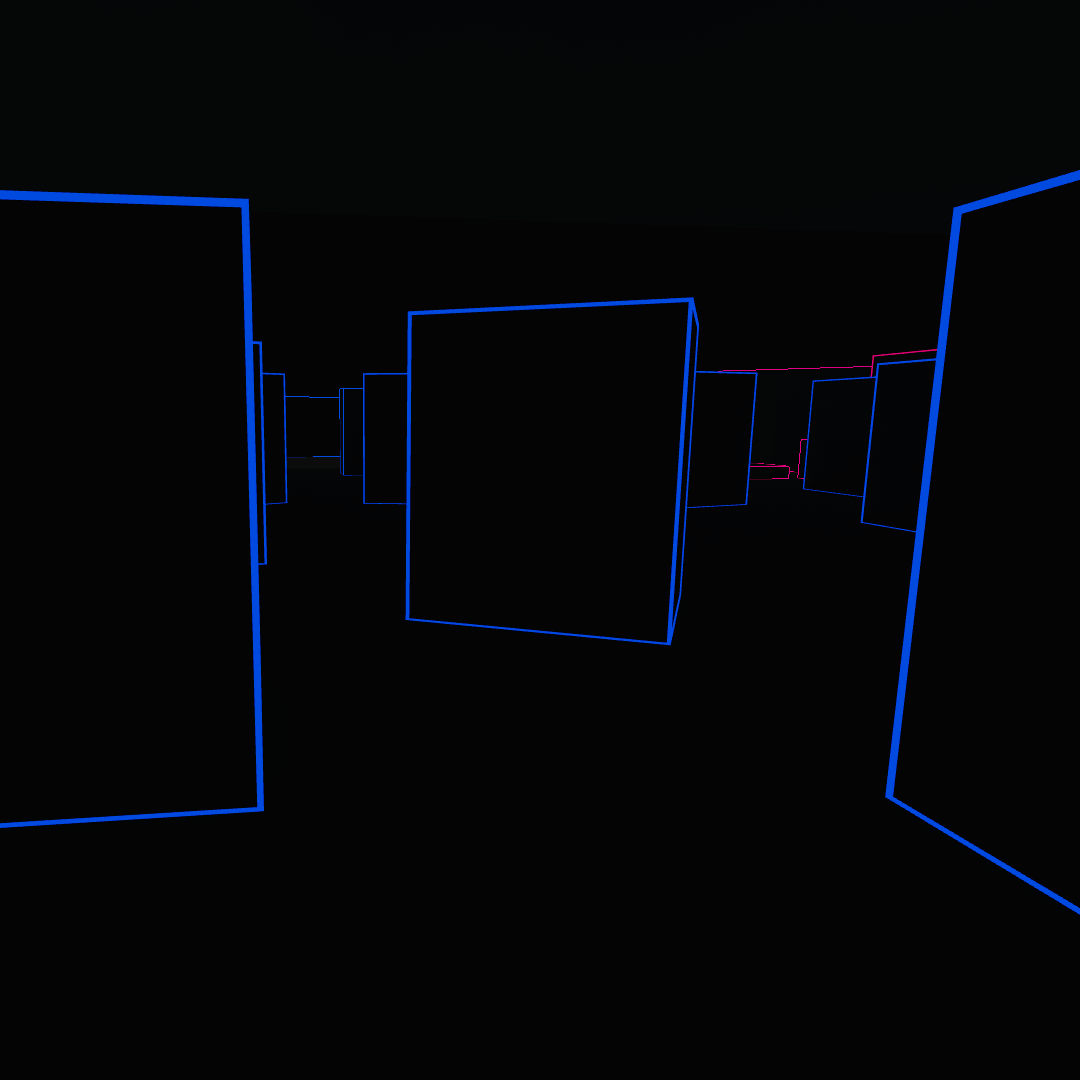
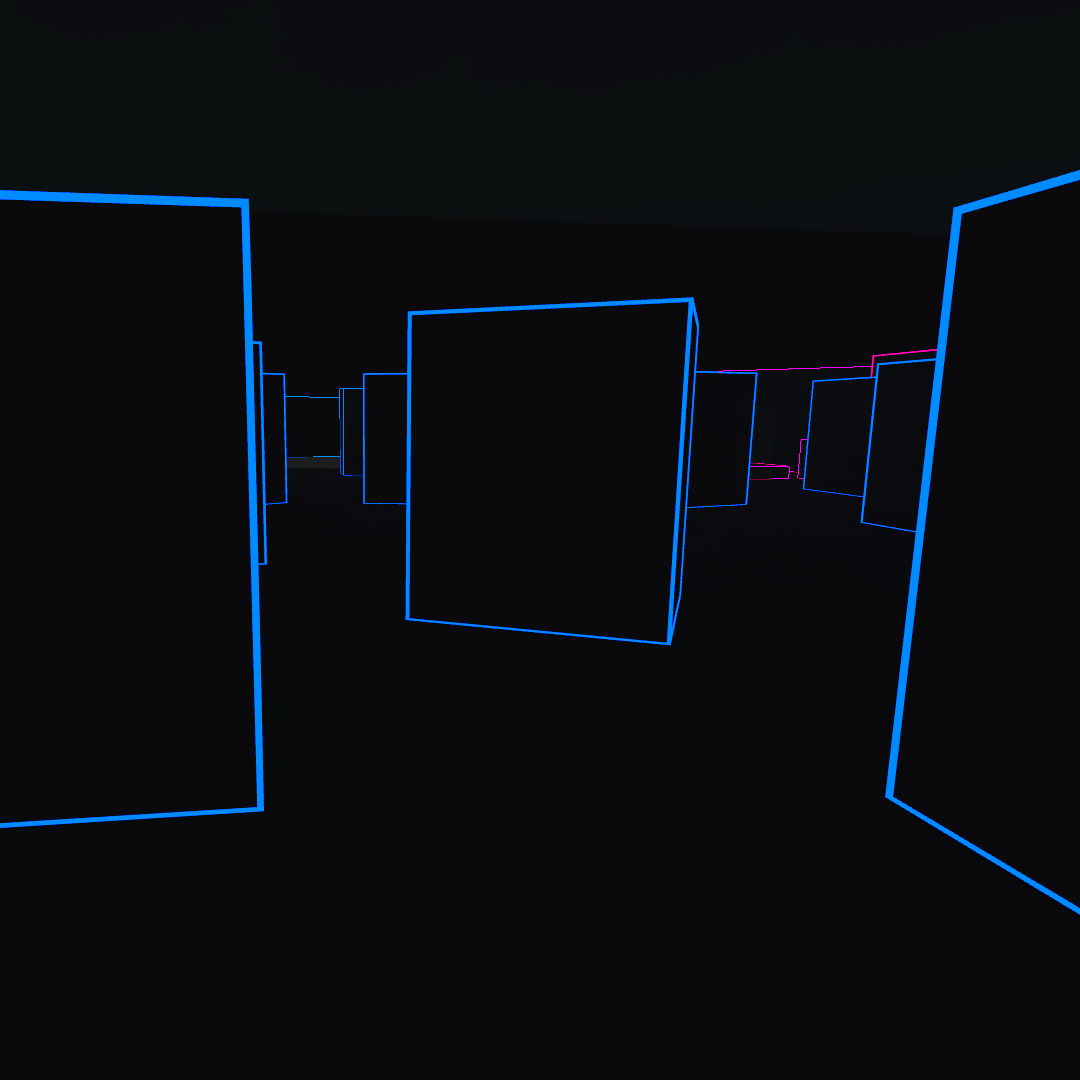
hof improvements

diff --git a/app/hof/page.tsx b/app/hof/page.tsx
@@ -11,6 +11,7 @@ import { useRuns } from "../../hooks/useRuns"
 
 import { categoryPresets } from "../../lib/categories"
 import { getMapsForCategory } from "../../lib/categoryMaps"
+import { getRankColor } from "../../lib/rankColors"
 import { formatTime } from "../../lib/utils"
 import {
   formatHoFRank,
@@ -62,10 +63,6 @@ export default function HoFPage() {
         <h1 className="text-4xl font-bold">
           Hall of Fame
         </h1>
-
-        <p className="mt-2 text-sm text-neutral-400">
-          Overall leaderboards
-        </p>
       </section>
 
       <div className="flex flex-col items-center gap-4">
@@ -82,6 +79,12 @@ export default function HoFPage() {
             setStat(value as HoFStat)
           }
         />
+
+        {(stat === "ap" || stat === "total") && (
+          <p className="text-sm text-neutral-400">
+            All map submissions required
+          </p>
+        )}
       </div>
 
       {loading ? (
@@ -89,13 +92,34 @@ export default function HoFPage() {
           Loading HoF...
         </p>
       ) : (
-        <section className="overflow-hidden rounded-2xl border border-neutral-800">
-          <div className="grid grid-cols-[0.5fr_4fr_1fr] border-b border-neutral-800 bg-neutral-900/60 px-6 py-4 text-sm font-semibold text-neutral-300">
-            <div>#</div>
+        <section className="w-full overflow-hidden rounded-2xl border border-neutral-800">
+          <div className="flex items-center border-b border-neutral-800 bg-neutral-900/60 px-6 py-4 text-sm font-semibold text-neutral-300">
+            <div
+              className="text-center"
+              style={{
+                width: "90px",
+                minWidth: "90px",
+              }}
+            >
+              #
+            </div>
 
-            <div>Player</div>
+            <div
+              style={{
+                flex: 1,
+                paddingLeft: "32px",
+              }}
+            >
+              Player
+            </div>
 
-            <div className="text-right">
+            <div
+              className="text-right"
+              style={{
+                width: "160px",
+                minWidth: "160px",
+              }}
+            >
               {valueLabel}
             </div>
           </div>
@@ -115,6 +139,14 @@ export default function HoFPage() {
                     !hofEntry.mapSet.has(map)
                 )
 
+              const rankColor = getRankColor(
+                index,
+                "#737373"
+              )
+
+              const playerColor =
+                getRankColor(index)
+
               return (
                 <div
                   key={hofEntry.player}
@@ -129,24 +161,59 @@ export default function HoFPage() {
                           : hofEntry.player
                       )
                     }
-                    className="grid w-full grid-cols-[0.5fr_4fr_1fr] items-center px-6 py-4 text-left transition-colors hover:bg-neutral-900/40"
+                    className="flex w-full items-center px-6 py-4 text-left transition-colors hover:bg-neutral-900/40"
                   >
-                    <div className="text-neutral-500">
+                    <div
+                      className="text-center font-bold"
+                      style={{
+                        width: "90px",
+                        minWidth: "90px",
+                        color: rankColor,
+                      }}
+                    >
                       {formatHoFRank(index, stat)}
                     </div>
 
-                    <div className="font-medium">
+                    <div
+                      className={
+                        index <= 2
+                          ? "font-bold"
+                          : "font-medium"
+                      }
+                      style={{
+                        flex: 1,
+                        paddingLeft: "32px",
+                        color: playerColor,
+                      }}
+                    >
                       <Link
                         href={`/player/${slugifyPlayer(hofEntry.player)}`}
                         className="hover:underline"
-                        onClick={(event) => event.stopPropagation()}
+                        onClick={(event) =>
+                          event.stopPropagation()
+                        }
                       >
                         {hofEntry.player}
                       </Link>
                     </div>
 
-                    <div className="text-right font-semibold">
-                      {formatHoFValue(hofEntry.value, category, stat)}
+                    <div
+                      className={`text-right ${
+                        index <= 2
+                          ? "font-bold"
+                          : "font-semibold"
+                      }`}
+                      style={{
+                        width: "160px",
+                        minWidth: "160px",
+                        color: playerColor,
+                      }}
+                    >
+                      {formatHoFValue(
+                        hofEntry.value,
+                        category,
+                        stat
+                      )}
 
                       {stat === "aap" && (
                         <span className="ml-2 text-xs font-medium text-neutral-500">
@@ -169,14 +236,20 @@ export default function HoFPage() {
                                   : "grid-cols-[3fr_1fr]"
                               }`}
                             >
-                              <div className="font-medium">
-                                <Link
-                                  href={`/lb/${slugifyMap(record.map)}`}
-                                  className="hover:underline"
-                                >
-                                  {record.map}
-                                </Link>
-                              </div>
+                              <div className="flex items-center gap-3 font-medium">
+  <img
+    src={`/maps/${slugifyMap(record.map)}.png`}
+    alt={record.map}
+    className="h-6 w-10 rounded object-cover"
+  />
+
+  <Link
+    href={`/lb/${slugifyMap(record.map)}`}
+    className="hover:underline"
+  >
+    {record.map}
+  </Link>
+</div>
 
                               <div
                                 className={`font-semibold ${
@@ -192,12 +265,18 @@ export default function HoFPage() {
                               </div>
 
                               {(stat === "ap" || stat === "aap") && (
-                                <div className="text-right font-semibold">
-                                  {record.placement
-                                    ? `#${record.placement}`
-                                    : ""}
-                                </div>
-                              )}
+  <div
+    className="text-right font-semibold"
+    style={{
+      color:
+        record.placement && record.placement <= 3
+          ? getRankColor(record.placement - 1)
+          : undefined,
+    }}
+  >
+    {record.placement ?? ""}
+  </div>
+)}
                             </div>
                           )
                         )}

diff --git a/lib/rankColors.ts b/lib/rankColors.ts
@@ -1,0 +1,10 @@
+export function getRankColor(
+  index: number,
+  fallback = "#ffffff"
+) {
+  if (index === 0) return "#ecb500"
+  if (index === 1) return "#b4b4b4"
+  if (index === 2) return "#c26d0c"
+
+  return fallback
+}